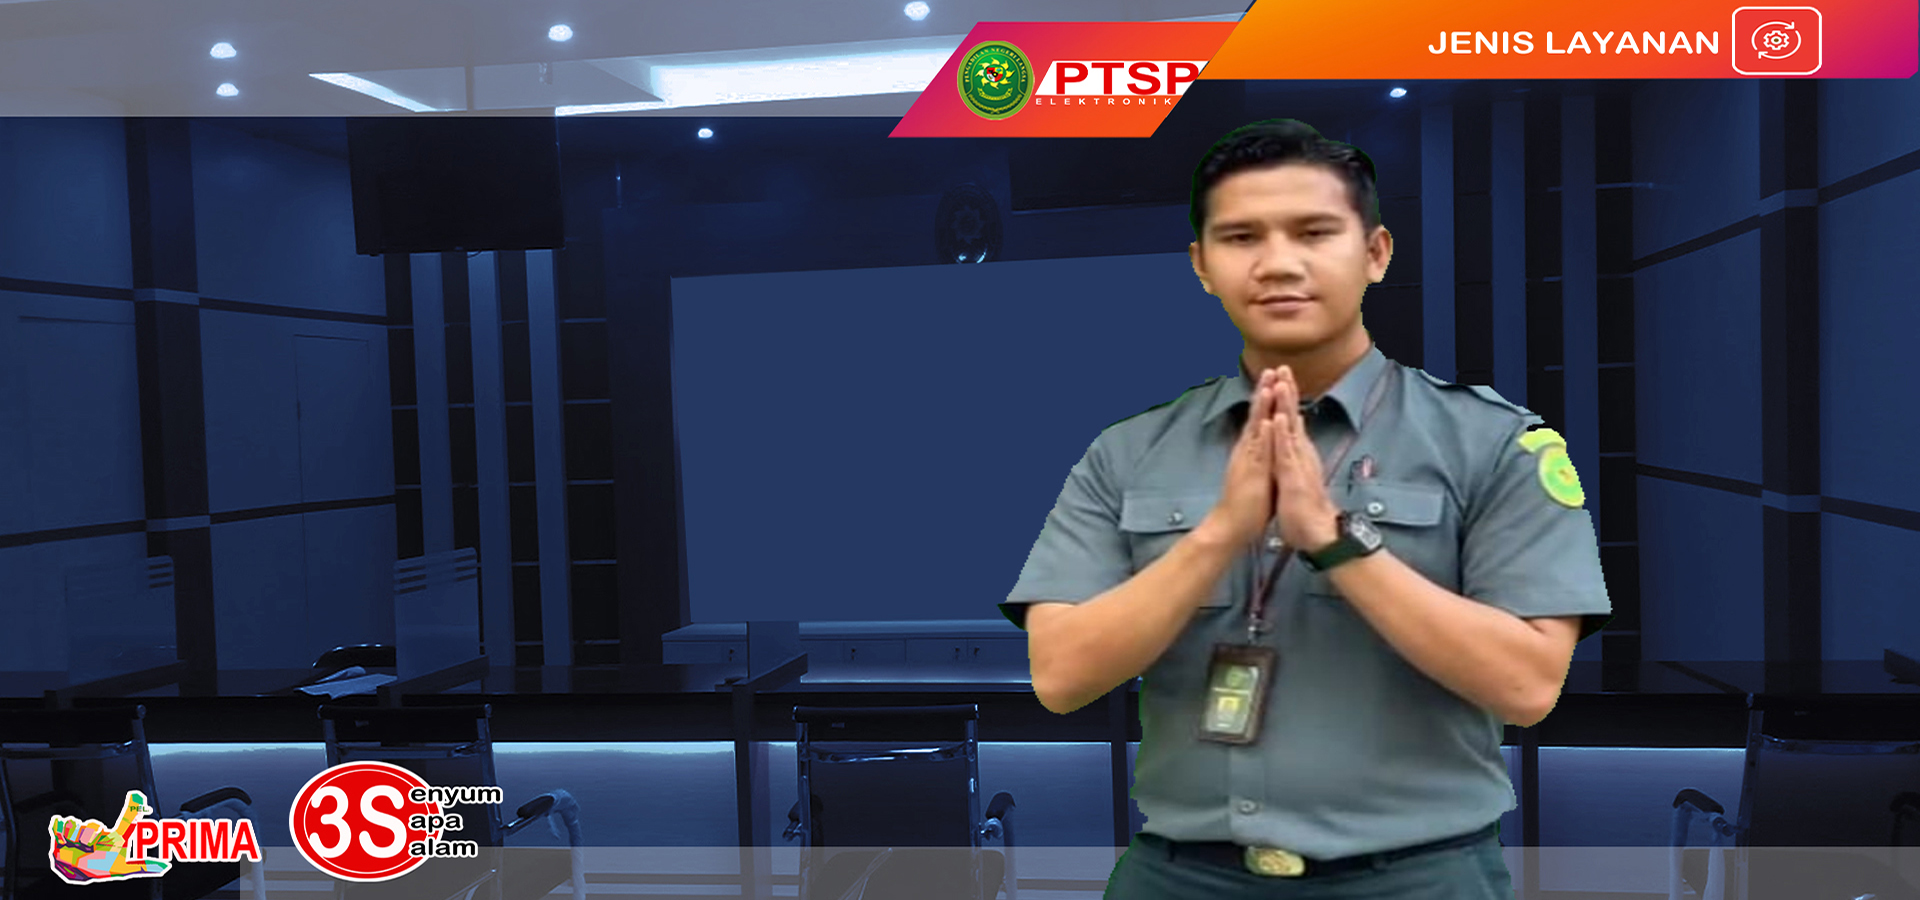
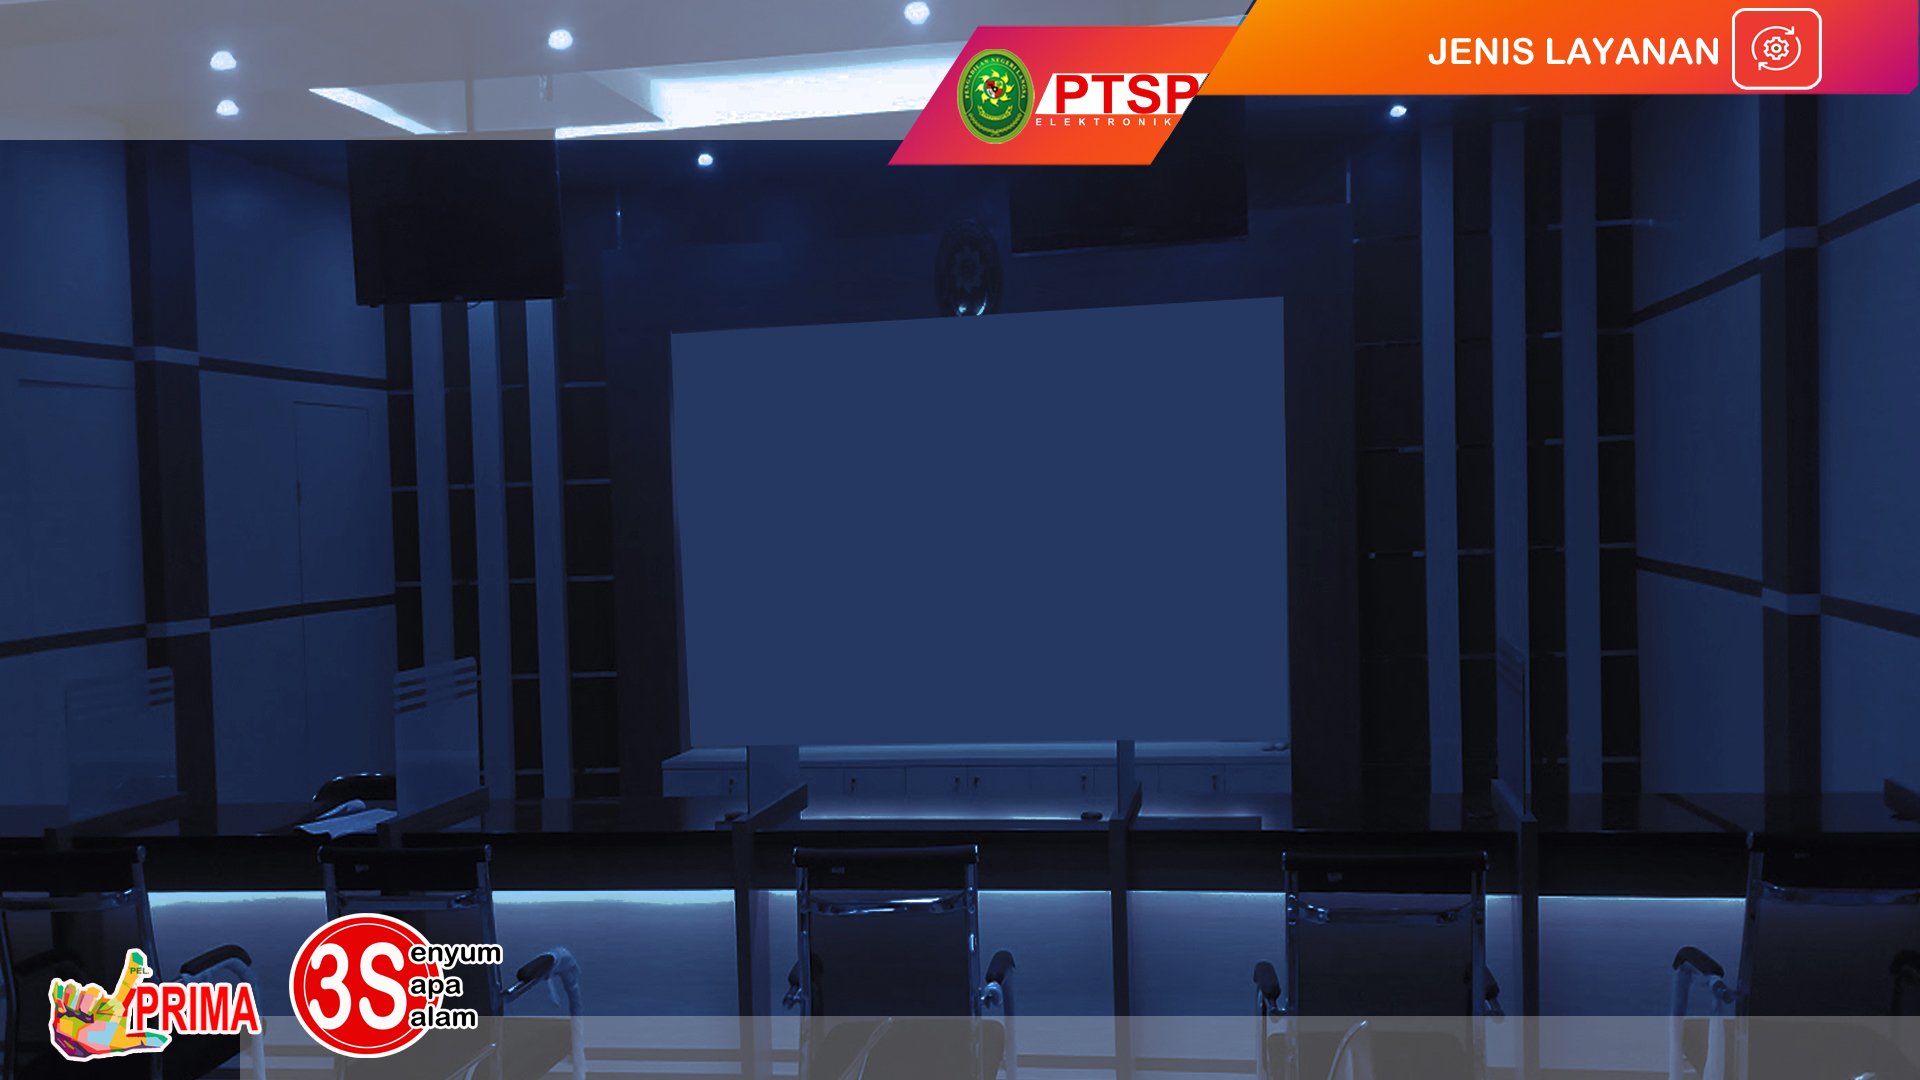
update halaman jenis layanan

Changed region(s): [[0.5, 0.1244, 0.8438, 1.0], [0.9062, 0.0, 0.9375, 0.0311]]

diff --git a/halaman-2.html b/halaman-2.html
@@ -69,7 +69,11 @@
 						<img src="btn-disabilitas.png" alt="" width="400">
 					</a>
 				</div>
-				<div class="col-5">
+				<div class="col-3">
+					<img src="layanan.gif" alt="" class="d-none d-md-block" width="500"
+						style="position: absolute; right: 250px; bottom: 0;">
+				</div>
+				<div class="col-2">
 					<div class="d-flex justify-content-end">
 						<a href="tel:+6282163480130" target="_blank">
 							<img src="btn-telp.png" alt="" width="120">
